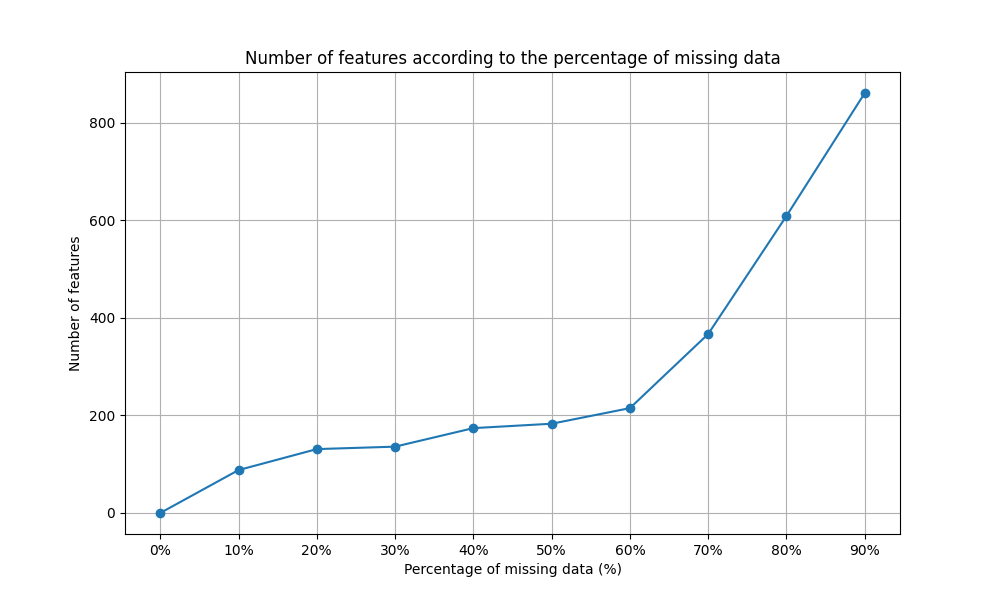
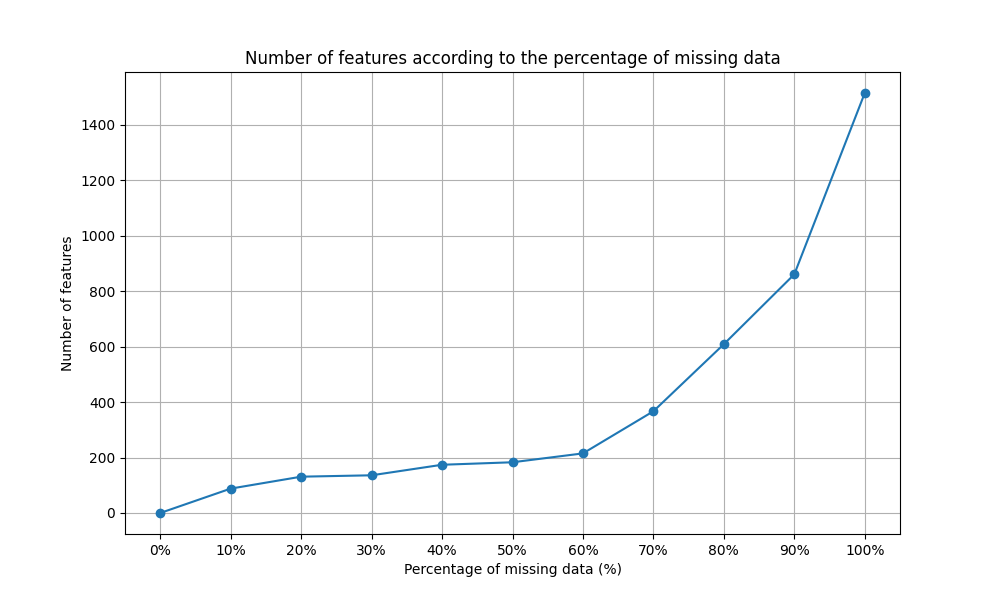
pca update

diff --git a/preprocessing.py b/preprocessing.py
@@ -1,0 +1,60 @@
+import pandas as pd
+import seaborn as sns
+import matplotlib.pyplot as plt
+import os
+
+# Path Constants
+DATA_DIR = "data/data.csv"
+# Data Loading
+df_data = pd.read_csv(DATA_DIR)
+
+# Create directories if they don't exist
+os.makedirs('/visualization/distribution/with0', exist_ok=True)
+os.makedirs('/visualization/bivariate/with0', exist_ok=True)
+
+#-------IMPUTATION--------
+
+#distribution of the features with the replacement of NaN with mean 
+#for feature with <10% of missing data
+
+i=0
+for col in df_data.columns:
+    if df_data[col].isnull().mean() < 0.1:
+        print("Feature : ", col, " has ", df_data[col].isnull().mean()*100, "% of missing data")
+        df_data[col].fillna(df_data[col].mean(), inplace=True)
+
+df_data40 = df_data[df_data.columns[df_data.isnull().mean() < 0.4]]
+
+#df_data40.to_csv('data/data40.csv', index=False)
+
+# Imputation for other features with more than 10% of missing data
+# with iterative imputation
+import numpy as np
+from sklearn.experimental import enable_iterative_imputer
+from sklearn.impute import IterativeImputer
+from sklearn.datasets import make_regression
+
+import pandas as pd
+from sklearn.experimental import enable_iterative_imputer
+from sklearn.impute import IterativeImputer
+from sklearn.linear_model import LinearRegression
+
+# 10 000 individuals
+df_sample = df_data40.sample(n=10000, random_state=0)
+
+# Appliquer l'imputation avec les paramètres optimisés
+imputer = IterativeImputer(
+    estimator=LinearRegression(),
+    max_iter=5,
+    random_state=0,
+    n_nearest_features=100
+)
+
+X_imputed = imputer.fit_transform(df_sample)
+
+X_imputed_df = pd.DataFrame(X_imputed, columns=df_sample.columns)
+
+# save
+X_imputed_df.to_csv('data/imputed_sample.csv', index=False)
+
+

diff --git a/PCA.py b/PCA.py
@@ -1,0 +1,35 @@
+import pandas as pd
+from sklearn.decomposition import PCA
+from sklearn.preprocessing import StandardScaler
+import matplotlib.pyplot as plt
+
+df_imputed = pd.read_csv('data/imputed_sample.csv')
+
+# Normalization
+scaler = StandardScaler()
+X_scaled = scaler.fit_transform(df_imputed)
+
+
+#    - Garder 95% de la variance expliquée (ou choisir un nombre fixe de composantes)
+pca = PCA(n_components=0.95)  # ou PCA(n_components=100) pour un nombre fixe
+X_pca = pca.fit_transform(X_scaled)
+
+
+print(f"Nombre de composantes principales retenues : {pca.n_components_}")
+print(f"Variance expliquée par composante : {pca.explained_variance_ratio_}")
+print(f"Variance cumulée expliquée : {pca.explained_variance_ratio_.cumsum()}")
+
+# la variance expliquée (optionnel)
+plt.figure(figsize=(10, 6))
+plt.plot(range(1, len(pca.explained_variance_ratio_) + 1),
+         pca.explained_variance_ratio_.cumsum(),
+         marker='o', linestyle='--')
+plt.xlabel('Nombre de composantes')
+plt.ylabel('Variance cumulée expliquée')
+plt.title('Variance expliquée par les composantes principales')
+plt.savefig('visualization/pca_variance_explained.png')
+plt.grid()
+plt.show()
+
+# sauvegarder les données réduites
+X_pca.to_csv('data/imputed_sample_pca.csv', index=False)

diff --git a/firstLook.py b/firstLook.py
@@ -13,19 +13,19 @@ df_data.head()
 df_meta.head()
 
 lenOfData = []
-for i in range (10):
+for i in range (11):
   dataUnderI = df_data.columns[df_data.isnull().mean() < i/10]
   lenOfData.append(len(dataUnderI))
   print(f"Number of features with less than {i*10}% missing data: {len(dataUnderI)}")
 
 #graph of the number of features according to the percentage of missing data
 plt.figure(figsize=(10, 6))
-plt.plot(range(10), lenOfData, marker='o')
+plt.plot(range(11), lenOfData, marker='o')
 plt.grid()
 plt.title('Number of features according to the percentage of missing data')
 plt.xlabel('Percentage of missing data (%)')
 plt.ylabel('Number of features')
-plt.xticks(range(10), [f'{i*10}%' for i in range(10)])
+plt.xticks(range(11), [f'{i*10}%' for i in range(11)])
 #save the graph as an image
 plt.savefig('visualization/missing_data.png')
 plt.show()
